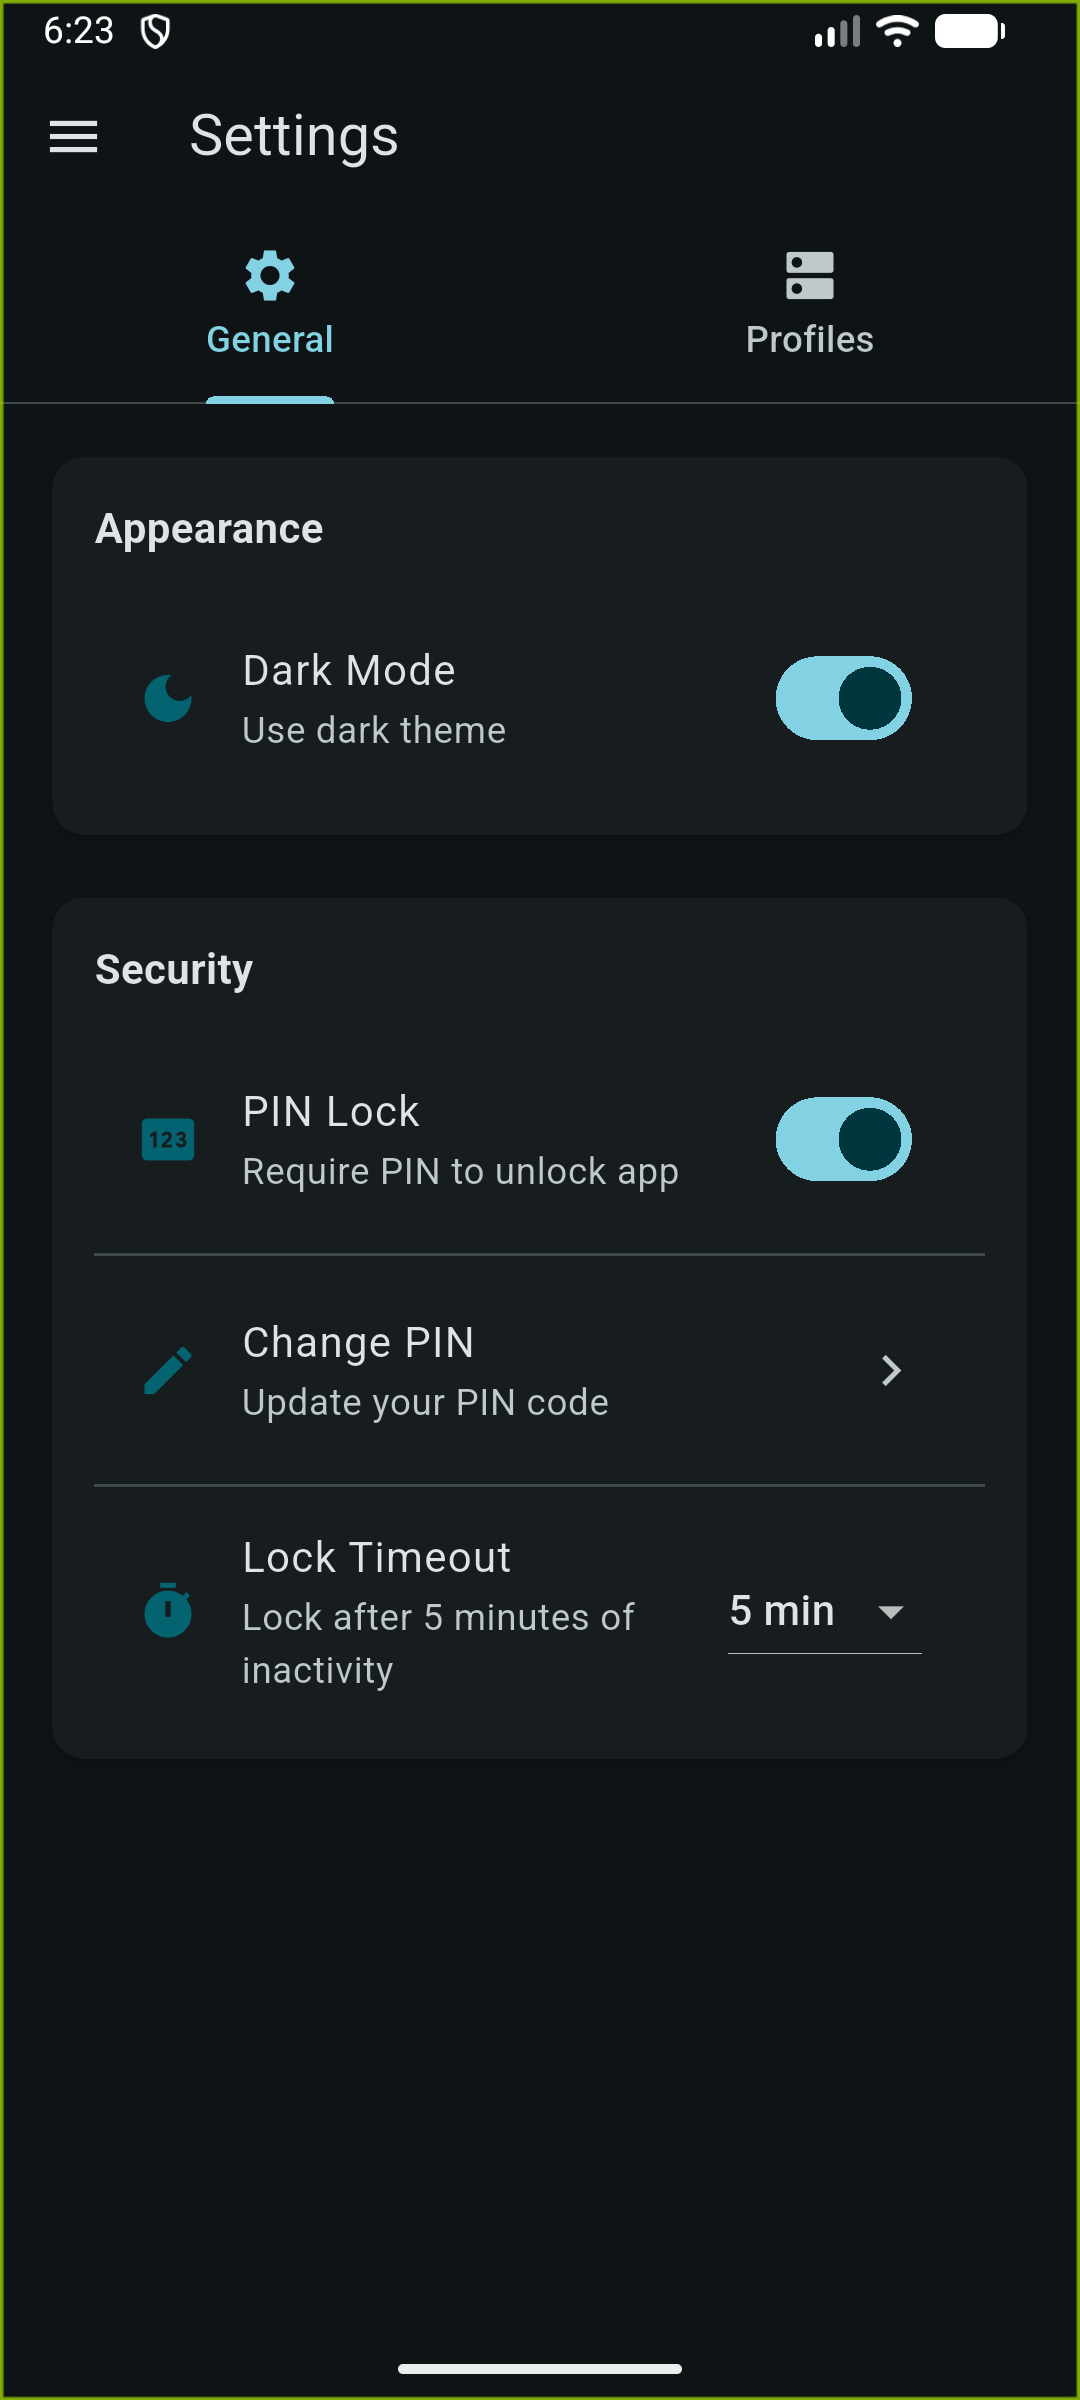
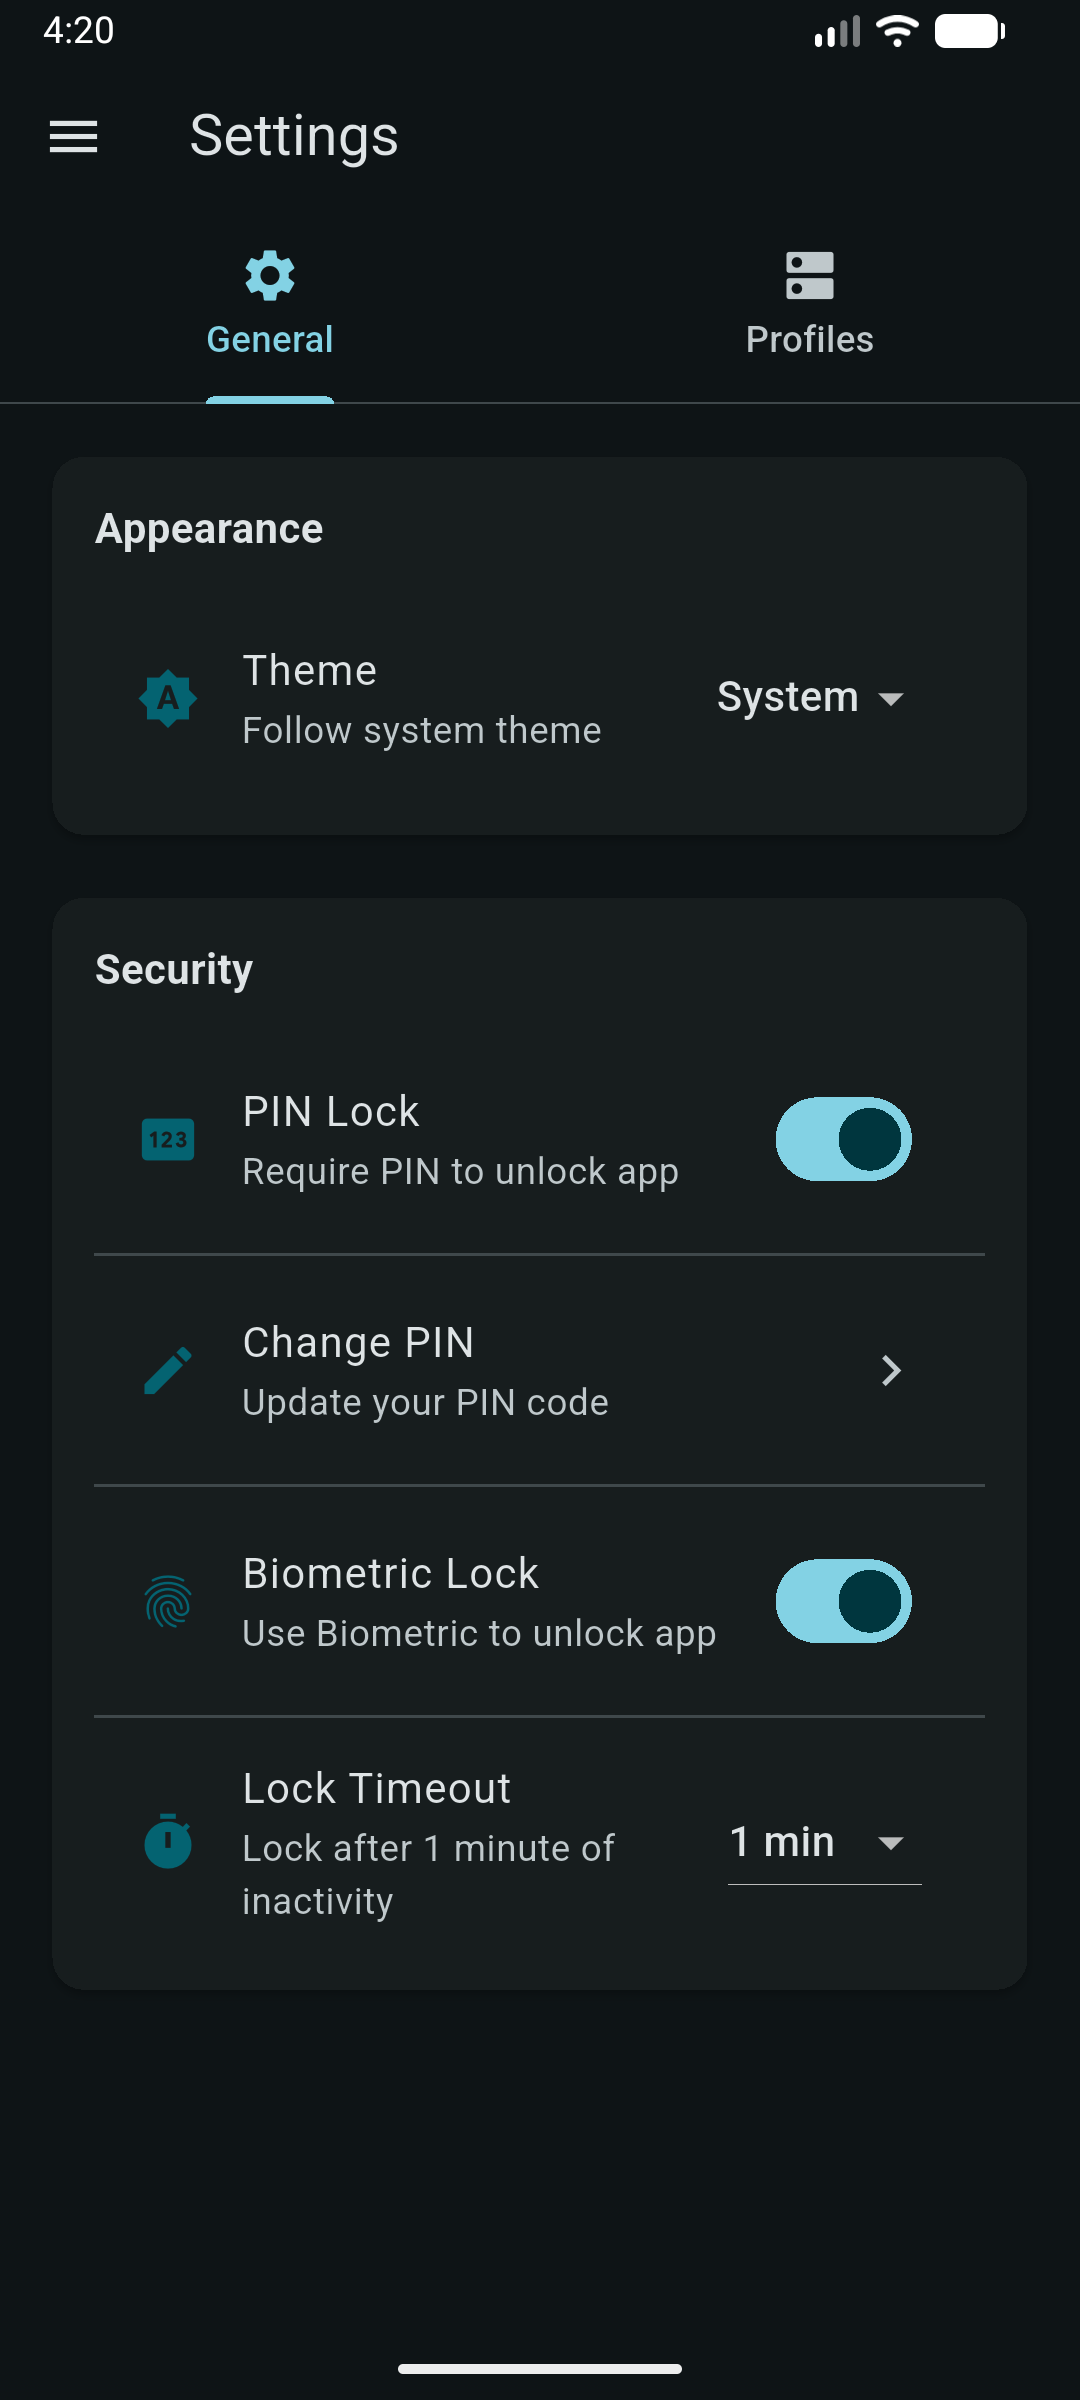
V1.0.1 (#3)
* Resolved issue with Biometrics being dimmed out and updated the theme menu to have a system option

* Updated gitignore

* adjusted code to make the app load a little faster

* Updated settings screenshot

diff --git a/lib/screens/settings_screen.dart b/lib/screens/settings_screen.dart
@@ -42,7 +42,7 @@ class SettingsScreen extends StatefulWidget {
 class _SettingsScreenState extends State<SettingsScreen> with SingleTickerProviderStateMixin {
   late TabController _tabController;
   SystemInfo? _systemInfo;
-  bool _isDarkMode = false;
+  String _themeMode = 'system'; // 'system', 'light', or 'dark'
   
   // Auth settings
   bool _pinEnabled = false;
@@ -87,10 +87,10 @@ class _SettingsScreenState extends State<SettingsScreen> with SingleTickerProvid
   }
 
   Future<void> _loadThemeMode() async {
-    final isDark = await StorageService().loadBool('dark_mode') ?? false;
+    final themeMode = await StorageService().loadString('theme_mode') ?? 'system';
     if (mounted) {
       setState(() {
-        _isDarkMode = isDark;
+        _themeMode = themeMode;
       });
     }
   }
@@ -132,12 +132,13 @@ class _SettingsScreenState extends State<SettingsScreen> with SingleTickerProvid
     }
   }
 
-  void _toggleDarkMode(bool value) {
+  void _updateThemeMode(String? value) {
+    if (value == null) return;
     setState(() {
-      _isDarkMode = value;
+      _themeMode = value;
     });
-    final toggleTheme = context.read<Function(bool)>();
-    toggleTheme(value);
+    final updateTheme = context.read<Function(String)>();
+    updateTheme(value);
   }
 
   Future<void> _togglePinLock(bool value) async {
@@ -148,12 +149,19 @@ class _SettingsScreenState extends State<SettingsScreen> with SingleTickerProvid
       // Disable PIN
       final authService = AuthService();
       await authService.disablePin();
+      
+      // Also disable biometric if it was enabled
+      if (_biometricEnabled) {
+        await authService.setBiometricEnabled(false);
+      }
+      
       setState(() {
         _pinEnabled = false;
+        _biometricEnabled = false;
       });
       if (mounted) {
         ScaffoldMessenger.of(context).showSnackBar(
-          const SnackBar(content: Text('PIN lock disabled')),
+          const SnackBar(content: Text('PIN lock disabled. Biometric lock also disabled.')),
         );
       }
     }
@@ -375,7 +383,34 @@ class _SettingsScreenState extends State<SettingsScreen> with SingleTickerProvid
   Future<void> _toggleBiometric(bool value) async {
     final authService = AuthService();
     
+    // Check if PIN is enabled first
+    if (!_pinEnabled) {
+      if (mounted) {
+        ScaffoldMessenger.of(context).showSnackBar(
+          const SnackBar(
+            content: Text('Please enable PIN lock first before using biometric'),
+            backgroundColor: Colors.orange,
+          ),
+        );
+      }
+      return;
+    }
+    
     if (value) {
+      // Double-check biometric availability
+      final isAvailable = await authService.isBiometricAvailable();
+      if (!isAvailable) {
+        if (mounted) {
+          ScaffoldMessenger.of(context).showSnackBar(
+            const SnackBar(
+              content: Text('Biometric authentication is not available on this device'),
+              backgroundColor: Colors.red,
+            ),
+          );
+        }
+        return;
+      }
+
       // Test biometric authentication first
       final authenticated = await authService.authenticateWithBiometrics(
         localizedReason: 'Authenticate to enable biometric lock',
@@ -388,14 +423,17 @@ class _SettingsScreenState extends State<SettingsScreen> with SingleTickerProvid
         });
         if (mounted) {
           ScaffoldMessenger.of(context).showSnackBar(
-            const SnackBar(content: Text('Biometric lock enabled')),
+            const SnackBar(
+              content: Text('Biometric lock enabled'),
+              backgroundColor: Colors.green,
+            ),
           );
         }
       } else {
         if (mounted) {
           ScaffoldMessenger.of(context).showSnackBar(
             const SnackBar(
-              content: Text('Biometric authentication failed'),
+              content: Text('Biometric authentication failed or was cancelled'),
               backgroundColor: Colors.red,
             ),
           );
@@ -475,15 +513,42 @@ class _SettingsScreenState extends State<SettingsScreen> with SingleTickerProvid
                   ),
             ),
             const SizedBox(height: 16),
-            SwitchListTile(
-              title: const Text('Dark Mode'),
-              subtitle: const Text('Use dark theme'),
-              secondary: Icon(
-                _isDarkMode ? Icons.dark_mode : Icons.light_mode,
+            ListTile(
+              leading: Icon(
+                _themeMode == 'dark'
+                    ? Icons.dark_mode
+                    : _themeMode == 'light'
+                        ? Icons.light_mode
+                        : Icons.brightness_auto,
                 color: Theme.of(context).primaryColor,
               ),
-              value: _isDarkMode,
-              onChanged: _toggleDarkMode,
+              title: const Text('Theme'),
+              subtitle: Text(
+                _themeMode == 'system'
+                    ? 'Follow system theme'
+                    : _themeMode == 'light'
+                        ? 'Light mode'
+                        : 'Dark mode',
+              ),
+              trailing: DropdownButton<String>(
+                value: _themeMode,
+                underline: const SizedBox(),
+                items: const [
+                  DropdownMenuItem(
+                    value: 'system',
+                    child: Text('System'),
+                  ),
+                  DropdownMenuItem(
+                    value: 'light',
+                    child: Text('Light'),
+                  ),
+                  DropdownMenuItem(
+                    value: 'dark',
+                    child: Text('Dark'),
+                  ),
+                ],
+                onChanged: _updateThemeMode,
+              ),
             ),
           ],
         ),
@@ -532,13 +597,15 @@ class _SettingsScreenState extends State<SettingsScreen> with SingleTickerProvid
               const Divider(),
               SwitchListTile(
                 title: Text('${_getBiometricName()} Lock'),
-                subtitle: Text('Use ${_getBiometricName()} to unlock app'),
+                subtitle: Text(_pinEnabled
+                    ? 'Use ${_getBiometricName()} to unlock app'
+                    : 'Enable PIN lock first to use biometric'),
                 secondary: Icon(
                   Icons.fingerprint,
                   color: Theme.of(context).primaryColor,
                 ),
                 value: _biometricEnabled,
-                onChanged: _toggleBiometric,
+                onChanged: _pinEnabled ? _toggleBiometric : null,
               ),
             ],
             if (_pinEnabled || _biometricEnabled) ...[

diff --git a/lib/main.dart b/lib/main.dart
@@ -28,13 +28,15 @@ import 'utils/constants.dart';
 void main() async {
   WidgetsFlutterBinding.ensureInitialized();
   
-  // Initialize services
-  await StorageService().init();
-  await AuthService().init();
-  await ProfileService().init();
+  // Initialize services in parallel for faster startup
+  await Future.wait([
+    StorageService().init(),
+    AuthService().init(),
+    ProfileService().init(),
+  ]);
   
-  // Migrate from old storage to profile-based storage
-  await ProfileService().migrateFromOldStorage();
+  // Migrate from old storage to profile-based storage (non-blocking)
+  ProfileService().migrateFromOldStorage();
   
   runApp(const OPNsenseManagerApp());
 }
@@ -47,26 +49,41 @@ class OPNsenseManagerApp extends StatefulWidget {
 }
 
 class _OPNsenseManagerAppState extends State<OPNsenseManagerApp> {
-  ThemeMode _themeMode = ThemeMode.light;
+  ThemeMode _themeMode = ThemeMode.system;
 
   @override
   void initState() {
     super.initState();
+    // Load theme mode asynchronously without blocking UI
     _loadThemeMode();
   }
 
   Future<void> _loadThemeMode() async {
-    final isDark = await StorageService().loadBool('dark_mode') ?? false;
-    setState(() {
-      _themeMode = isDark ? ThemeMode.dark : ThemeMode.light;
-    });
+    final themeModeString = await StorageService().loadString('theme_mode') ?? 'system';
+    if (mounted) {
+      setState(() {
+        _themeMode = _getThemeModeFromString(themeModeString);
+      });
+    }
   }
 
-  void _toggleTheme(bool isDark) {
+  ThemeMode _getThemeModeFromString(String mode) {
+    switch (mode) {
+      case 'light':
+        return ThemeMode.light;
+      case 'dark':
+        return ThemeMode.dark;
+      case 'system':
+      default:
+        return ThemeMode.system;
+    }
+  }
+
+  void _updateThemeMode(String mode) {
     setState(() {
-      _themeMode = isDark ? ThemeMode.dark : ThemeMode.light;
+      _themeMode = _getThemeModeFromString(mode);
     });
-    StorageService().saveBool('dark_mode', isDark);
+    StorageService().saveString('theme_mode', mode);
   }
 
   @override
@@ -85,8 +102,8 @@ class _OPNsenseManagerAppState extends State<OPNsenseManagerApp> {
         Provider<ProfileService>(
           create: (_) => ProfileService(),
         ),
-        Provider<Function(bool)>(
-          create: (_) => _toggleTheme,
+        Provider<Function(String)>(
+          create: (_) => _updateThemeMode,
         ),
       ],
       child: MaterialApp(

diff --git a/lib/screens/dashboard_screen.dart b/lib/screens/dashboard_screen.dart
@@ -78,20 +78,18 @@ class _DashboardScreenState extends State<DashboardScreen> {
     try {
       final apiService = context.read<OPNsenseApiService>();
       
-      // Load system info
-      final systemInfo = await apiService.getSystemInfo();
-      
-      // Load services (placeholder - will implement API call)
-      final services = await _loadServices();
-      
-      // Load gateways (placeholder - will implement API call)
-      final gateways = await _loadGateways();
+      // Load all data in parallel for faster loading
+      final results = await Future.wait([
+        apiService.getSystemInfo(),
+        _loadServices(),
+        _loadGateways(),
+      ]);
 
       if (mounted) {
         setState(() {
-          _systemInfo = systemInfo;
-          _servicesData = services;
-          _gateways = gateways;
+          _systemInfo = results[0] as SystemInfo;
+          _servicesData = results[1] as Map<String, dynamic>;
+          _gateways = results[2] as List<Map<String, dynamic>>;
           _isLoading = false;
         });
       }

diff --git a/lib/services/auth_service.dart b/lib/services/auth_service.dart
@@ -95,7 +95,8 @@ class AuthService {
   /// Check if device supports biometric authentication
   Future<bool> canCheckBiometrics() async {
     try {
-      return await _localAuth.canCheckBiometrics;
+      final canCheck = await _localAuth.canCheckBiometrics;
+      return canCheck;
     } on PlatformException {
       return false;
     }
@@ -117,7 +118,8 @@ class AuthService {
   /// Get available biometric types
   Future<List<BiometricType>> getAvailableBiometrics() async {
     try {
-      return await _localAuth.getAvailableBiometrics();
+      final biometrics = await _localAuth.getAvailableBiometrics();
+      return biometrics;
     } on PlatformException {
       return [];
     }
@@ -130,6 +132,9 @@ class AuthService {
     try {
       final canCheck = await canCheckBiometrics();
       if (!canCheck) return false;
+
+      final isAvailable = await isBiometricAvailable();
+      if (!isAvailable) return false;
 
       return await _localAuth.authenticate(
         localizedReason: localizedReason,

diff --git a/lib/services/storage_service.dart b/lib/services/storage_service.dart
@@ -34,6 +34,25 @@ class StorageService {
   /// Initialize shared preferences
   Future<void> init() async {
     _prefs ??= await SharedPreferences.getInstance();
+    await _migrateThemeMode();
+  }
+
+  /// Migrate from old dark_mode boolean to new theme_mode string
+  Future<void> _migrateThemeMode() async {
+    // Check if we have the old dark_mode setting
+    final oldDarkMode = _prefs?.getBool('dark_mode');
+    final newThemeMode = _prefs?.getString('theme_mode');
+    
+    // If we have old setting but no new setting, migrate
+    if (oldDarkMode != null && newThemeMode == null) {
+      await _prefs?.setString('theme_mode', oldDarkMode ? 'dark' : 'light');
+      await _prefs?.remove('dark_mode');
+    }
+    
+    // If no setting exists at all, default to system
+    if (newThemeMode == null && oldDarkMode == null) {
+      await _prefs?.setString('theme_mode', 'system');
+    }
   }
 
   // ==================== Secure Storage (Credentials) ====================

diff --git a/lib/screens/splash_screen.dart b/lib/screens/splash_screen.dart
@@ -43,9 +43,6 @@ class _SplashScreenState extends State<SplashScreen> {
   }
 
   Future<void> _initialize() async {
-    // Show splash for at least 2 seconds
-    await Future.delayed(const Duration(seconds: 2));
-
     if (!mounted) return;
 
     final authService = context.read<AuthService>();
@@ -93,8 +90,16 @@ class _SplashScreenState extends State<SplashScreen> {
       // Initialize API service with active profile
       apiService.init(activeProfile.toOPNsenseConfig());
 
-      // Test connection
-      final isConnected = await apiService.testConnection();
+      // Test connection with timeout for faster startup
+      bool isConnected = false;
+      try {
+        isConnected = await apiService.testConnection().timeout(
+          const Duration(seconds: 3),
+          onTimeout: () => false,
+        );
+      } catch (e) {
+        isConnected = false;
+      }
 
       if (!ctx.mounted) return;
 

diff --git a/android/app/src/main/kotlin/com/opnsense/opnsense_manager/MainActivity.kt b/android/app/src/main/kotlin/com/opnsense/opnsense_manager/MainActivity.kt
@@ -1,5 +1,5 @@
 package com.opnsense.opnsense_manager
 
-import io.flutter.embedding.android.FlutterActivity
+import io.flutter.embedding.android.FlutterFragmentActivity
 
-class MainActivity : FlutterActivity()
+class MainActivity : FlutterFragmentActivity()
